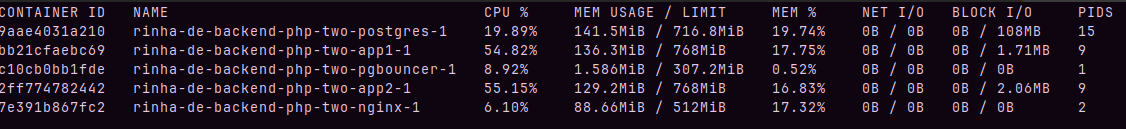
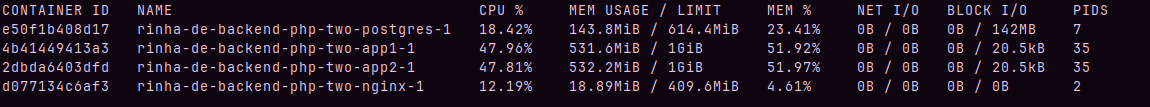
add desktop swoole results

diff --git a/README.md b/README.md
@@ -76,39 +76,35 @@ Mas depois de passar a usar o swoole e fazer vários ajustes, foi possível cheg
 ##### Resultado do gatling console
 
 ```
-Simulation RinhaBackendSimulation completed in 228 seconds
+Simulation RinhaBackendSimulation completed in 205 seconds
 Parsing log file(s)...
 Parsing log file(s) done
 Generating reports...
 
 ================================================================================
 ---- Global Information --------------------------------------------------------
-> request count                                     102122 (OK=81713  KO=20409 )
-> min response time                                      0 (OK=1      KO=0     )
-> max response time                                  20071 (OK=20071  KO=76    )
-> mean response time                                  6838 (OK=8539   KO=25    )
-> std deviation                                       7624 (OK=7626   KO=20    )
-> response time 50th percentile                       2401 (OK=7221   KO=24    )
-> response time 75th percentile                      16438 (OK=16865  KO=41    )
-> response time 95th percentile                      18793 (OK=18996  KO=59    )
-> response time 99th percentile                      19824 (OK=19882  KO=65    )
-> mean requests/sec                                445.948 (OK=356.825 KO=89.122)
+> request count                                     114991 (OK=114991 KO=0     )
+> min response time                                      0 (OK=0      KO=-     )
+> max response time                                    133 (OK=133    KO=-     )
+> mean response time                                     3 (OK=3      KO=-     )
+> std deviation                                          8 (OK=8      KO=-     )
+> response time 50th percentile                          1 (OK=1      KO=-     )
+> response time 75th percentile                          2 (OK=2      KO=-     )
+> response time 95th percentile                         10 (OK=10     KO=-     )
+> response time 99th percentile                         44 (OK=44     KO=-     )
+> mean requests/sec                                558.209 (OK=558.209 KO=-     )
 ---- Response Time Distribution ------------------------------------------------
-> t < 800 ms                                         25296 ( 25%)
-> 800 ms <= t < 1200 ms                               1586 (  2%)
-> t >= 1200 ms                                       54831 ( 54%)
-> failed                                             20409 ( 20%)
----- Errors --------------------------------------------------------------------
-> status.find.in(201,422,400), but actually found 502             15146 (74.21%)
-> status.find.in([200, 209], 304), found 502                       4225 (20.70%)
-> status.find.is(400), but actually found 502                      1038 ( 5.09%)
+> t < 800 ms                                        114991 (100%)
+> 800 ms <= t < 1200 ms                                  0 (  0%)
+> t >= 1200 ms                                           0 (  0%)
+> failed                                                 0 (  0%)
 ================================================================================
-A contagem de pessoas é: 33707
+A contagem de pessoas é: 46576
 ```
 
 ##### Recusos do docker durante a parte mais pesada do teste
 
-![Recusos do docker durante a parte mais pesada do teste](./images/laptop/two/docker-stats.png)
+![Recusos do docker durante a parte mais pesada do teste](./images/desktop/two/docker-stats.png)
 
 ### Laptop
 
